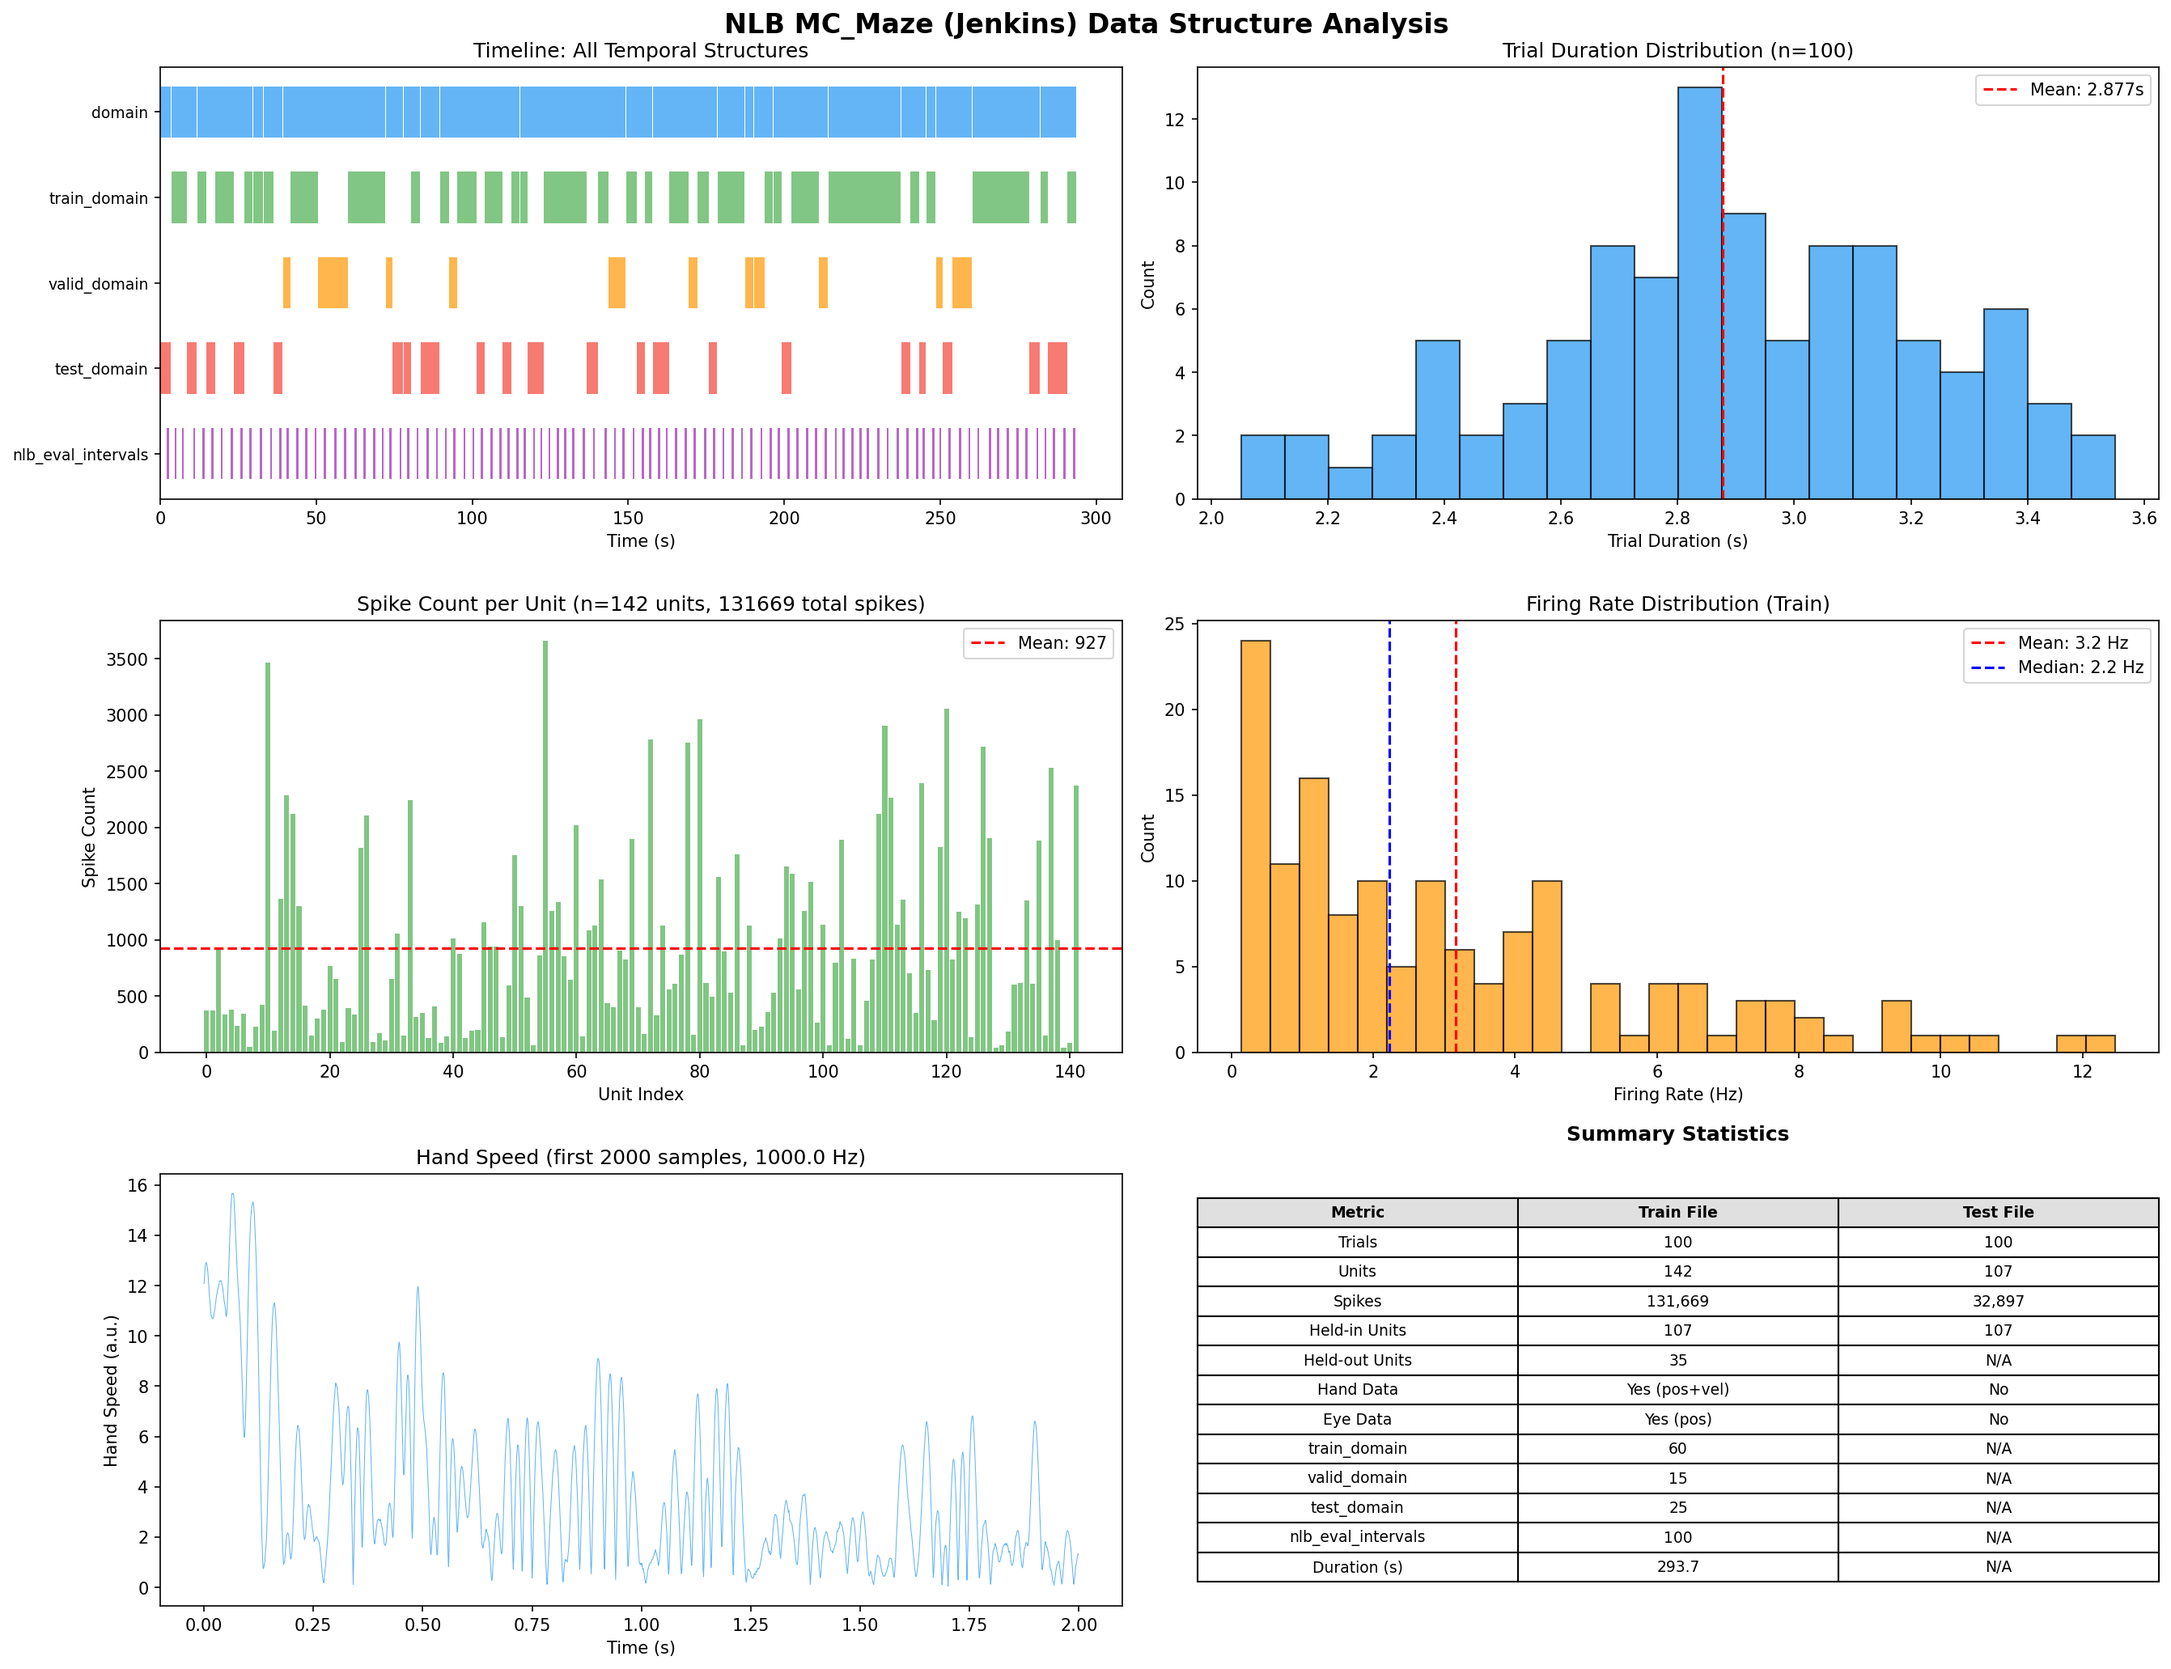
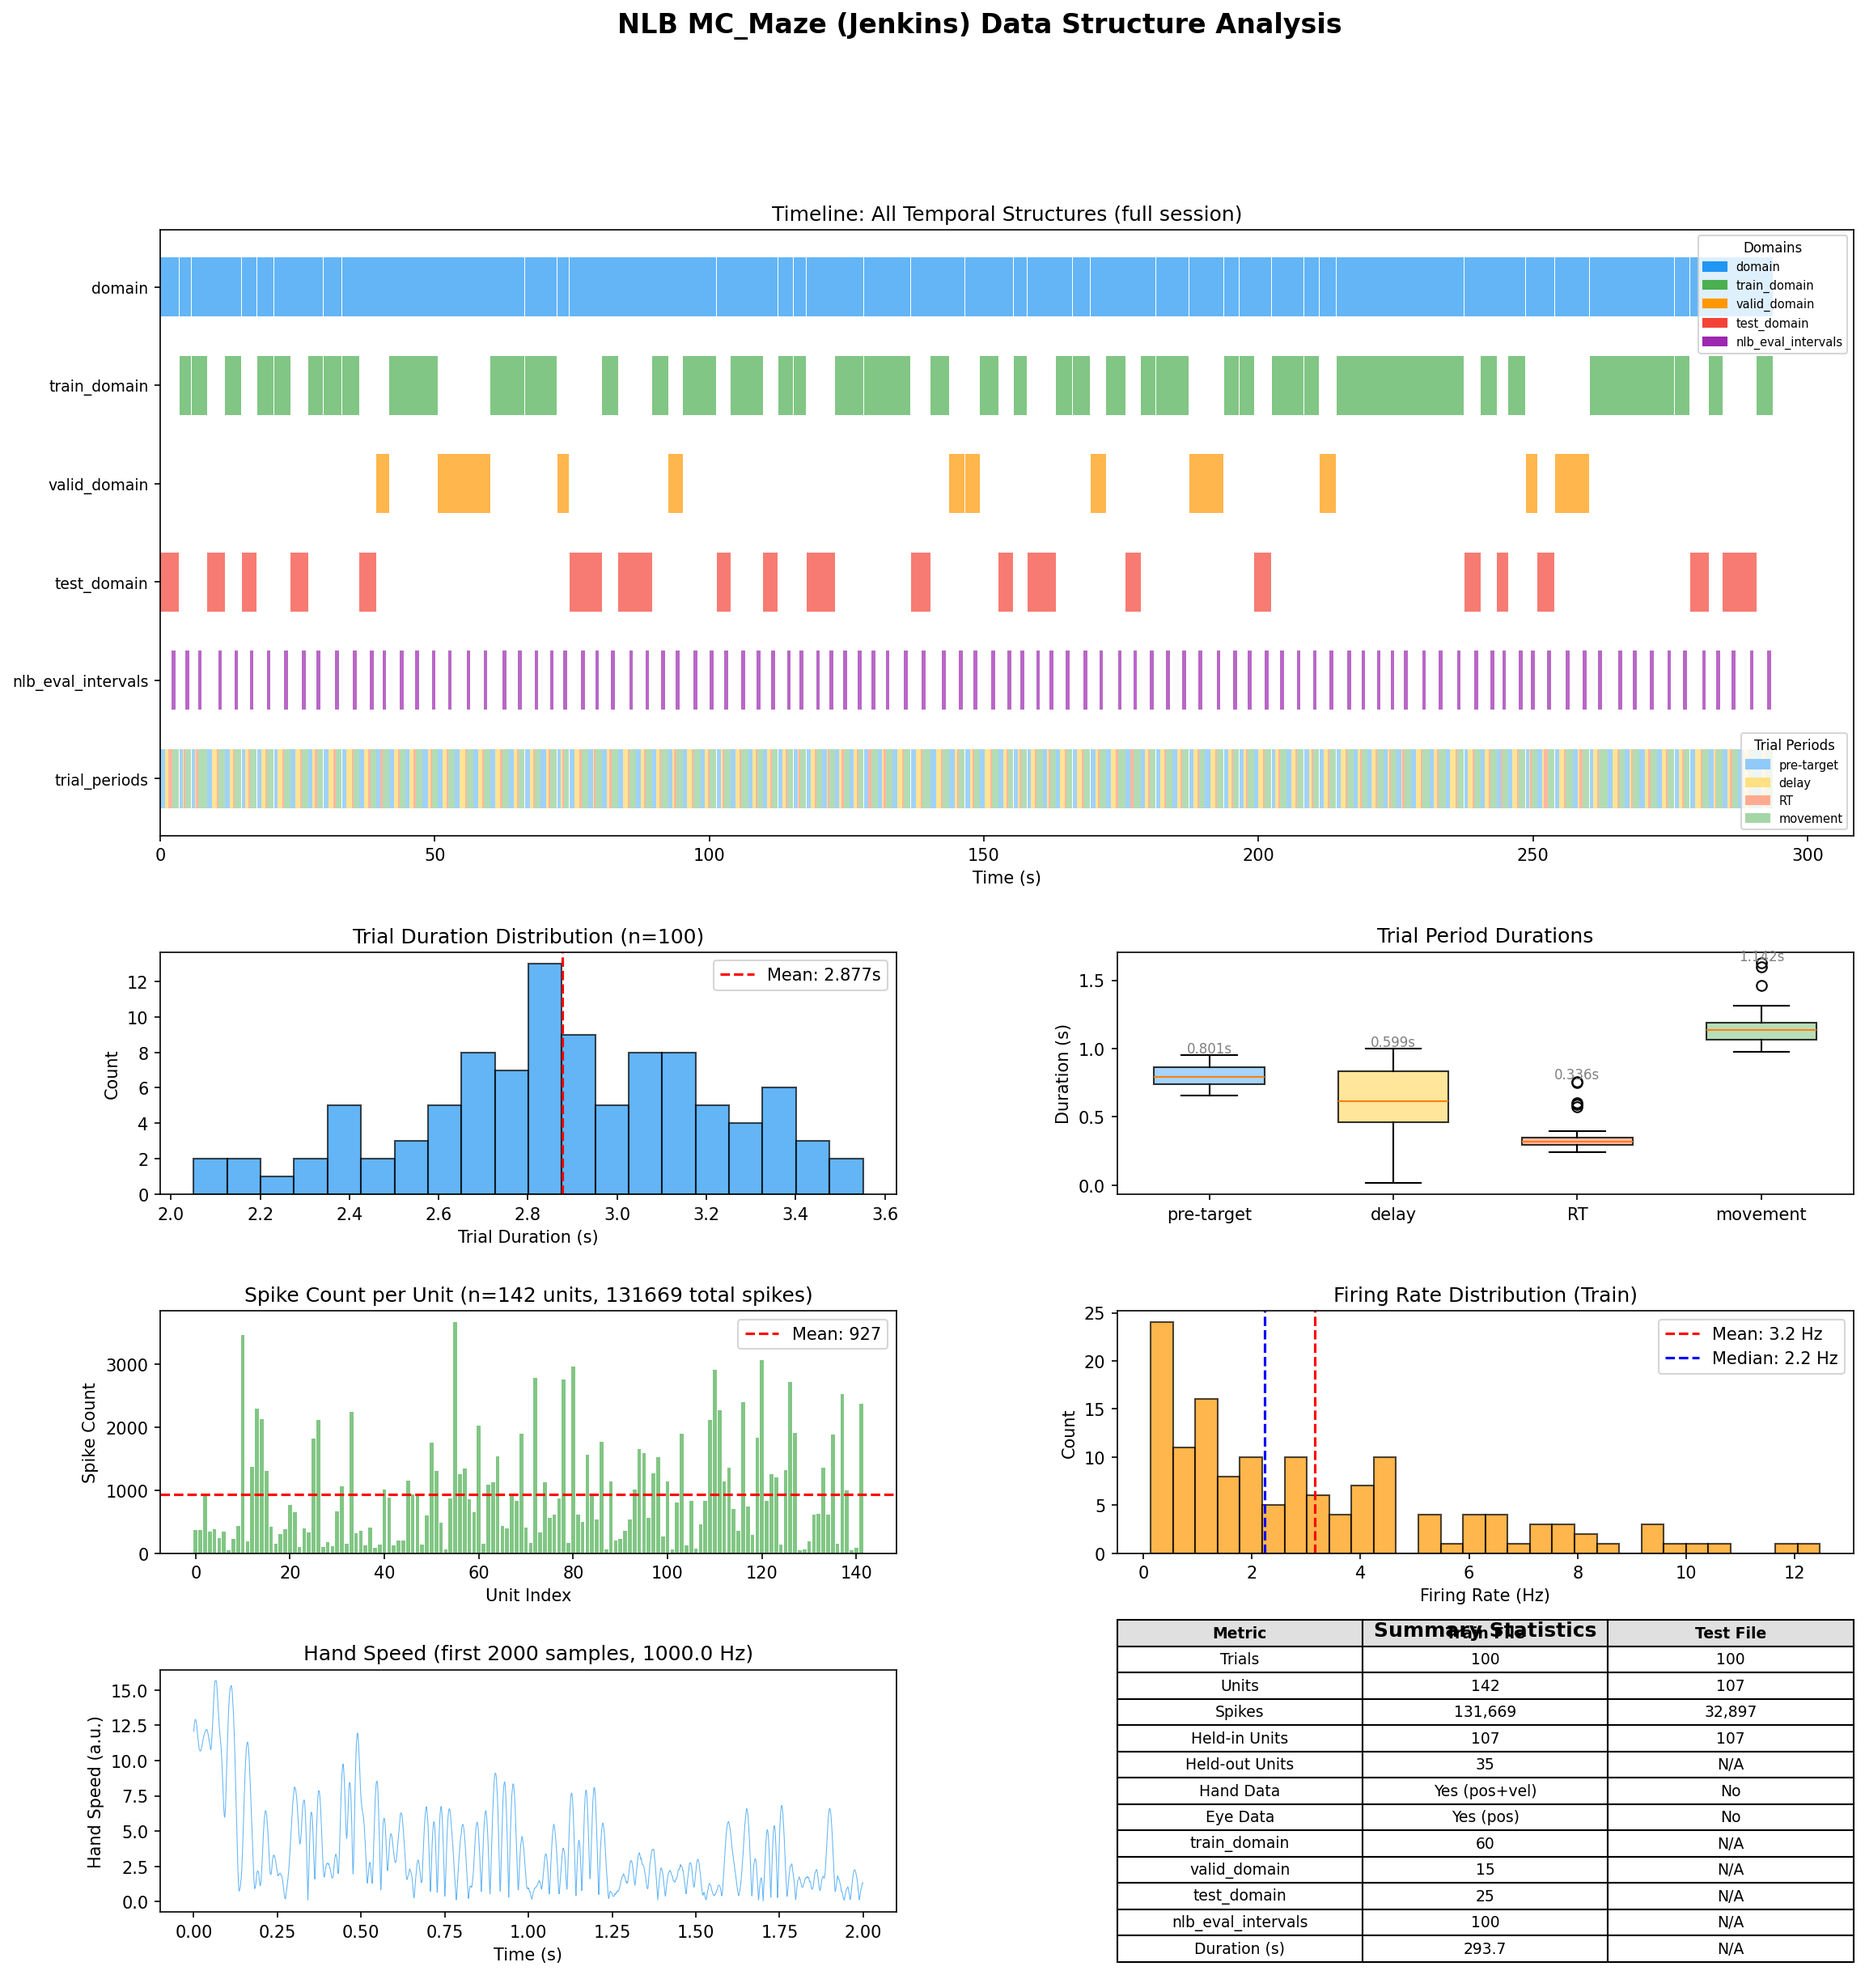
Figure 06 更新：timeline 增加 trial_periods 轨道（pre-target/delay/RT/movement）+ period boxplot
- timeline 子图改为全宽 GridSpec 布局，新增 trial_periods 轨道
- 新增 trial period durations boxplot（替换原 trial duration 子图位置）
- delay period 变异最大（0.014-0.999s），movement 最稳定（mean 1.142s）

diff --git a/scripts/analysis/analyze_nlb_benchmark.py b/scripts/analysis/analyze_nlb_benchmark.py
@@ -116,11 +116,23 @@ def part_a_data_structure(train_data, test_data):
             print(f"  {k}: {v}")
 
     # --- Figure 06: NLB Data Structure Visualization ---
-    fig, axes = plt.subplots(3, 2, figsize=(18, 14))
+    fig = plt.figure(figsize=(18, 18))
     fig.suptitle("NLB MC_Maze (Jenkins) Data Structure Analysis", fontsize=16, fontweight="bold")
 
-    # (0,0) Multi-track timeline
-    ax = axes[0, 0]
+    # Use GridSpec: top row (timeline) gets more height
+    gs = fig.add_gridspec(4, 2, height_ratios=[2.5, 1, 1, 1], hspace=0.35, wspace=0.3)
+
+    # Extract trial period timing
+    trial_starts = train_data["trials"]["start"]
+    trial_ends = train_data["trials"]["end"]
+    target_on_times = train_data["trials"]["target_on_time"]
+    go_cue_times = train_data["trials"]["go_cue_time"]
+    move_onset_times = train_data["trials"]["move_onset_time"]
+
+    # (0, 0:1) Full-width timeline spanning both columns
+    ax = fig.add_subplot(gs[0, :])
+
+    # --- Domain-level tracks ---
     colors_map = {
         "domain": "#2196F3",
         "train_domain": "#4CAF50",
@@ -145,14 +157,52 @@ def part_a_data_structure(train_data, test_data):
         y_labels.append(track_name)
         y_pos += 1
 
+    # --- Trial period track ---
+    period_colors = {
+        "pre-target": "#90CAF9",   # light blue
+        "delay":      "#FFE082",   # light yellow/amber
+        "RT":         "#FFAB91",   # light orange/red
+        "movement":   "#A5D6A7",   # light green
+    }
+    for i in range(n_trials):
+        ts = trial_starts[i]
+        to = target_on_times[i]
+        gc = go_cue_times[i]
+        mo = move_onset_times[i]
+        te = trial_ends[i]
+        ax.barh(y_pos, to - ts, left=ts, height=0.6, color=period_colors["pre-target"], alpha=0.85)
+        ax.barh(y_pos, gc - to, left=to, height=0.6, color=period_colors["delay"], alpha=0.85)
+        ax.barh(y_pos, mo - gc, left=gc, height=0.6, color=period_colors["RT"], alpha=0.85)
+        ax.barh(y_pos, te - mo, left=mo, height=0.6, color=period_colors["movement"], alpha=0.85)
+    y_labels.append("trial_periods")
+    y_pos += 1
+
     ax.set_yticks(range(len(y_labels)))
     ax.set_yticklabels(y_labels, fontsize=9)
     ax.set_xlabel("Time (s)")
-    ax.set_title("Timeline: All Temporal Structures")
+    ax.set_title("Timeline: All Temporal Structures (full session)")
     ax.invert_yaxis()
 
-    # (0,1) Trial duration distribution
-    ax = axes[0, 1]
+    # Add period legend
+    period_patches = [
+        mpatches.Patch(color=period_colors["pre-target"], label="pre-target"),
+        mpatches.Patch(color=period_colors["delay"], label="delay"),
+        mpatches.Patch(color=period_colors["RT"], label="RT"),
+        mpatches.Patch(color=period_colors["movement"], label="movement"),
+    ]
+    domain_patches = [
+        mpatches.Patch(color="#2196F3", label="domain"),
+        mpatches.Patch(color="#4CAF50", label="train_domain"),
+        mpatches.Patch(color="#FF9800", label="valid_domain"),
+        mpatches.Patch(color="#F44336", label="test_domain"),
+        mpatches.Patch(color="#9C27B0", label="nlb_eval_intervals"),
+    ]
+    leg1 = ax.legend(handles=domain_patches, loc="upper right", fontsize=7, title="Domains", title_fontsize=8)
+    ax.add_artist(leg1)
+    ax.legend(handles=period_patches, loc="lower right", fontsize=7, title="Trial Periods", title_fontsize=8)
+
+    # (1,0) Trial duration distribution
+    ax = fig.add_subplot(gs[1, 0])
     ax.hist(trial_durations, bins=20, color="#2196F3", alpha=0.7, edgecolor="black")
     ax.axvline(np.mean(trial_durations), color="red", linestyle="--",
                label=f"Mean: {np.mean(trial_durations):.3f}s")
@@ -161,8 +211,27 @@ def part_a_data_structure(train_data, test_data):
     ax.set_title(f"Trial Duration Distribution (n={n_trials})")
     ax.legend()
 
-    # (1,0) Spike count per unit
-    ax = axes[1, 0]
+    # (1,1) Trial period duration distributions (stacked)
+    ax = fig.add_subplot(gs[1, 1])
+    pre_target_durs = target_on_times - trial_starts
+    delay_durs = go_cue_times - target_on_times
+    rt_durs = move_onset_times - go_cue_times
+    movement_durs = trial_ends - move_onset_times
+    period_names = ["pre-target", "delay", "RT", "movement"]
+    period_data = [pre_target_durs, delay_durs, rt_durs, movement_durs]
+    bp = ax.boxplot(period_data, tick_labels=period_names, patch_artist=True, widths=0.6)
+    for patch, pname in zip(bp["boxes"], period_names):
+        patch.set_facecolor(period_colors[pname])
+        patch.set_alpha(0.8)
+    ax.set_ylabel("Duration (s)")
+    ax.set_title("Trial Period Durations")
+    # Annotate with means
+    for i, (pname, pdata) in enumerate(zip(period_names, period_data)):
+        ax.text(i + 1, np.max(pdata) + 0.02, f"{np.mean(pdata):.3f}s",
+                ha="center", fontsize=8, color="gray")
+
+    # (2,0) Spike count per unit
+    ax = fig.add_subplot(gs[2, 0])
     unit_indices = train_data["spikes"]["unit_index"]
     unit_counts = np.bincount(unit_indices, minlength=n_units_train)
     ax.bar(range(n_units_train), unit_counts, color="#4CAF50", alpha=0.7)
@@ -173,8 +242,8 @@ def part_a_data_structure(train_data, test_data):
     ax.set_title(f"Spike Count per Unit (n={n_units_train} units, {n_spikes_train} total spikes)")
     ax.legend()
 
-    # (1,1) Firing rate distribution
-    ax = axes[1, 1]
+    # (2,1) Firing rate distribution
+    ax = fig.add_subplot(gs[2, 1])
     total_dur = float(domain_end[-1] - domain_start[0])
     firing_rates = unit_counts / total_dur
     ax.hist(firing_rates, bins=30, color="#FF9800", alpha=0.7, edgecolor="black")
@@ -187,8 +256,8 @@ def part_a_data_structure(train_data, test_data):
     ax.set_title("Firing Rate Distribution (Train)")
     ax.legend()
 
-    # (2,0) Behavioral data overview: hand velocity
-    ax = axes[2, 0]
+    # (3,0) Behavioral data overview: hand velocity
+    ax = fig.add_subplot(gs[3, 0])
     hand_ts = train_data["hand"]["timestamps"]
     hand_vel = train_data["hand"]["vel"]
     speed = np.sqrt(hand_vel[:, 0]**2 + hand_vel[:, 1]**2)
@@ -198,8 +267,8 @@ def part_a_data_structure(train_data, test_data):
     ax.set_ylabel("Hand Speed (a.u.)")
     ax.set_title(f"Hand Speed (first {n_show} samples, {stats['train_file']['hand_sampling_rate_hz']} Hz)")
 
-    # (2,1) Summary stats table
-    ax = axes[2, 1]
+    # (3,1) Summary stats table
+    ax = fig.add_subplot(gs[3, 1])
     ax.axis("off")
     table_data = [
         ["Metric", "Train File", "Test File"],
@@ -225,7 +294,6 @@ def part_a_data_structure(train_data, test_data):
         table[0, j].set_text_props(fontweight="bold")
     ax.set_title("Summary Statistics", fontsize=12, fontweight="bold", pad=20)
 
-    plt.tight_layout()
     fig_path = OUTPUT_DIR / "06_nlb_data_structure.png"
     fig.savefig(fig_path, dpi=150, bbox_inches="tight")
     plt.close(fig)

diff --git a/cc_core_files/results.md b/cc_core_files/results.md
@@ -297,19 +297,21 @@ results/
 - **产生时间**：2026-03-09
 - **目的**：NLB MC_Maze (Jenkins) 数据结构全面可视化
 
-- **逐子图解读**（3x2 布局）：
+- **逐子图解读**（GridSpec 4x2 布局，顶部 timeline 跨双列）：
 
-  - **子图 (0,0) Timeline: All Temporal Structures**：多轨道时间轴，展示 domain（100 trials）、train_domain（60）、valid_domain（15）、test_domain（25）、nlb_eval_intervals（100）的时间分布。可见 train/valid/test 在时间轴上交错分布，eval intervals 覆盖所有 trials。
+  - **子图 (0, 0:1) Timeline: All Temporal Structures**：全宽多轨道时间轴（6 轨道），展示 domain（100 trials）、train_domain（60）、valid_domain（15）、test_domain（25）、nlb_eval_intervals（100）的时间分布，以及新增的 **trial_periods** 轨道。trial_periods 以 4 种颜色区分每个 trial 内的阶段：pre-target（浅蓝，mean 0.801s）→ delay（浅黄，mean 0.599s）→ RT（浅橙，mean 0.336s）→ movement（浅绿，mean 1.142s）。可直观看到 delay period 变异最大（0.014-0.999s），movement period 最稳定。
 
-  - **子图 (0,1) Trial Duration Distribution**：100 个 trial 的时长分布直方图。均值 2.877s，标准差 0.336s。所有 trial 时长在 2.0-3.5s 范围内，比 Perich-Miller 的 trial 更短更标准化。
+  - **子图 (1,0) Trial Duration Distribution**：100 个 trial 的总时长分布直方图。均值 2.877s，标准差 0.336s。所有 trial 时长在 2.0-3.5s 范围内，比 Perich-Miller 的 trial 更短更标准化。
 
-  - **子图 (1,0) Spike Count per Unit**：142 个 unit 的 spike 数量柱状图。均值约 927 spikes/unit（131,669 总 spikes / 142 units）。存在较大的单元间差异。
+  - **子图 (1,1) Trial Period Durations**：4 个 trial period 的 boxplot 对比。movement（mean 1.142s）时长最长且最稳定；delay（mean 0.599s）变异最大（涵盖 14ms 到 999ms）；RT（mean 0.336s）和 pre-target（mean 0.801s）相对稳定。boxplot 上方标注各 period 均值。
 
-  - **子图 (1,1) Firing Rate Distribution**：142 个 unit 的发放率分布。均值和中位数标注，呈右偏分布，与 Perich-Miller 类似。
+  - **子图 (2,0) Spike Count per Unit**：142 个 unit 的 spike 数量柱状图。均值约 927 spikes/unit（131,669 总 spikes / 142 units）。存在较大的单元间差异。
 
-  - **子图 (2,0) Hand Speed**：前 2000 个样本的手速时间序列（1000 Hz 采样率）。展示典型的 reach-hold-return 运动模式。
+  - **子图 (2,1) Firing Rate Distribution**：142 个 unit 的发放率分布。均值和中位数标注，呈右偏分布，与 Perich-Miller 类似。
 
-  - **子图 (2,1) Summary Statistics**：汇总表格，对比 train/test 文件的关键统计量：trials, units, spikes, held-in/out, 行为数据可用性, domain 划分。
+  - **子图 (3,0) Hand Speed**：前 2000 个样本的手速时间序列（1000 Hz 采样率）。展示典型的 reach-hold-return 运动模式。
+
+  - **子图 (3,1) Summary Statistics**：汇总表格，对比 train/test 文件的关键统计量：trials, units, spikes, held-in/out, 行为数据可用性, domain 划分。
 
 - **交叉引用**：
   - 脚本：`scripts/analysis/analyze_nlb_benchmark.py`
